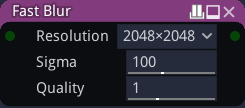
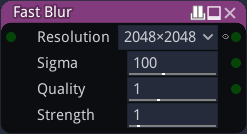
Add high-pass and sharpening functionality to fast blur shader

diff --git a/material_maker/doc/node_filter_blur_fast.rst b/material_maker/doc/node_filter_blur_fast.rst
@@ -15,18 +15,31 @@ that defines the intensity of the blur effect.
 Outputs
 +++++++
 
-The **Fast Blur** node outputs the result of the blur operation.
+The **Fast Blur** node has three outputs:
+
+* The first output is the result of the blur operation.
+
+* The second output is the high frequency details removed by the blur.
+  In other words, the first output subtracted from the original image.
+  Note that all channels including alpha will be centered at 0,
+  so this will need to be connected to a SwapChannels node to be seen in previews.
+
+* The third output is the original image sharpened.
+  In other words, this is the second output added back to the original image.
 
 Parameters
 ++++++++++
 
-The **Fast Blur** node has three parameters:
+The **Fast Blur** node has four parameters:
 
 * The *resolution* defines the size of the output image.
 
 * The *sigma* parameter defines how smooth the output will be.
 
 * The *quality* can be modified to choose between nicer result and rendering time.
+
+* The *strength* parameter is a multiplier for the high-pass and sharpened outputs.
+  It is unused for the blur output.
 
 Notes
 +++++
